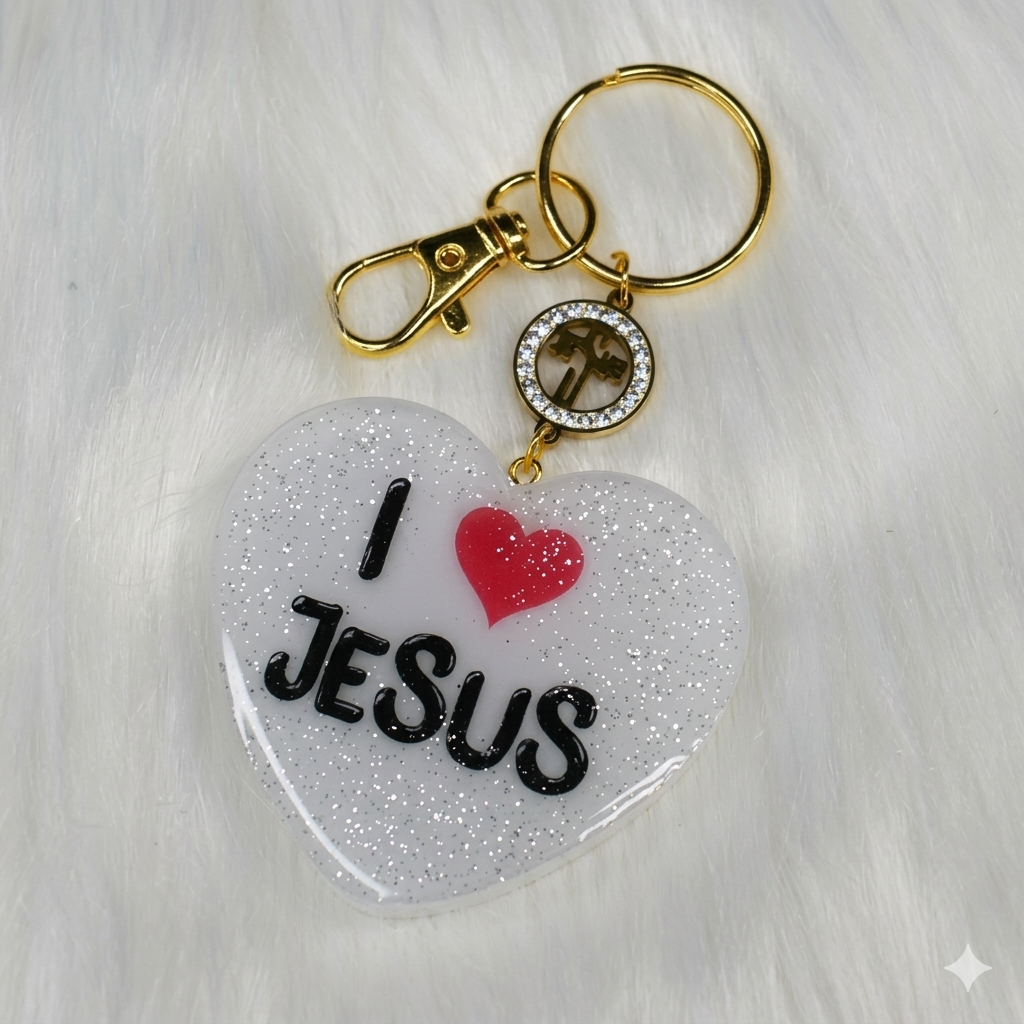
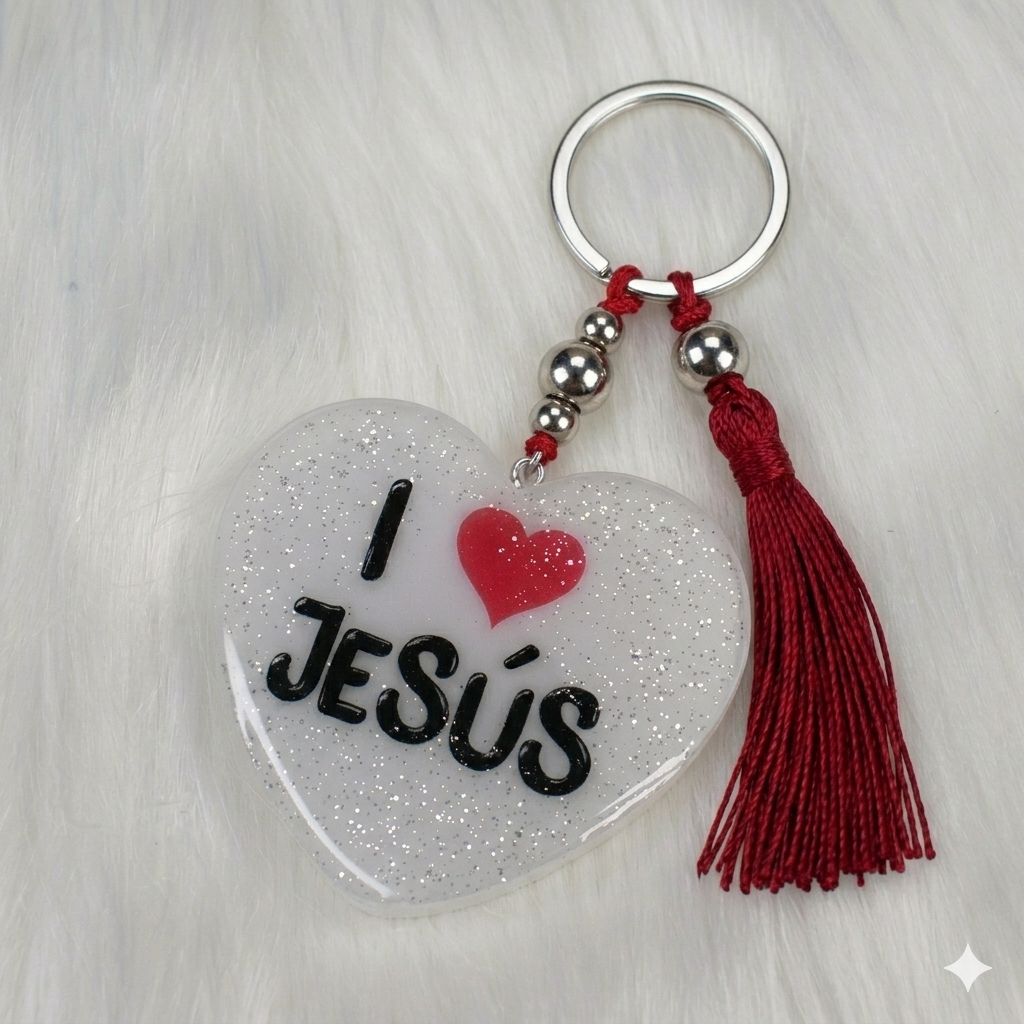
last commit

diff --git a/app/data/products.ts b/app/data/products.ts
@@ -22,7 +22,7 @@ export const products = [
   {
     id: 3,
     name: "Boda",
-    images: ["/images/llavero3.png"],
+    images: ["/images/llaveroboda.png"],
     description:
       "Llavero de resina con diseño de boda, ideal para regalar a los invitados.",
     price: 2800,
@@ -80,7 +80,7 @@ export const products = [
   {
     id: 9,
     name: "Letra k",
-    images: ["/images/llavero3.jpg"],
+    images: ["/images/llavero3.png"],
     description: "Llavero con letra k, personalizable con tu nombre",
     price: 2800,
     category: "letras",
@@ -163,6 +163,33 @@ export const products = [
     name: "Letra I",
     images: ["/images/llavero16.png"],
     description: "Llavero con letra I, personalizable con tu nombre",
+    price: 2800,
+    category: "letras",
+    customizable: false,
+  },
+  {
+    id: 19,
+    name: "Letra S",
+    images: ["/images/llavero17.png"],
+    description: "Llavero con letra S, personalizable con tu nombre",
+    price: 2800,
+    category: "letras",
+    customizable: false,
+  },
+  {
+    id: 20,
+    name: "Ovalo Personalizado",
+    images: ["/images/llavero18.png"],
+    description: "Llavero ovalado personalizado ",
+    price: 2800,
+    category: "todos",
+    customizable: false,
+  },
+  {
+    id: 21,
+    name: "Letra A",
+    images: ["/images/llavero19.png"],
+    description: "Llavero con letra A, personalizable con tu nombre",
     price: 2800,
     category: "letras",
     customizable: false,

diff --git a/app/components/Card.tsx b/app/components/Card.tsx
@@ -35,10 +35,10 @@ export default function Card({ item, onClick }: any) {
           </h2>
 
           <div className="flex items-center justify-between mt-4">
-            <p className="text-white text-xl font-light">
+            {/* <p className="text-white text-xl font-light">
               <span className="text-sm opacity-60 mr-1">$</span>
               {item.price}
-            </p>
+            </p> */}
 
             {item.customizable && (
               <span className="text-[10px] bg-white/10 backdrop-blur-md border border-white/10 px-3 py-1 rounded-full uppercase tracking-tighter">

diff --git a/app/components/Modal.tsx b/app/components/Modal.tsx
@@ -131,10 +131,10 @@ export default function Modal({ item, onClose }: any) {
             <h2 className="text-3xl md:text-4xl font-bold mt-4 mb-2 tracking-tight">
               {item.name}
             </h2>
-            <p className="text-xl text-white font-light mb-4">
+            {/* <p className="text-xl text-white font-light mb-4">
               <span className="text-pink-500 font-bold">$</span>
               {item.price}
-            </p>
+            </p> */}
             <p className="text-gray-400 leading-relaxed text-sm mb-8">
               {item.description || "Pieza artesanal de alta calidad."}
             </p>